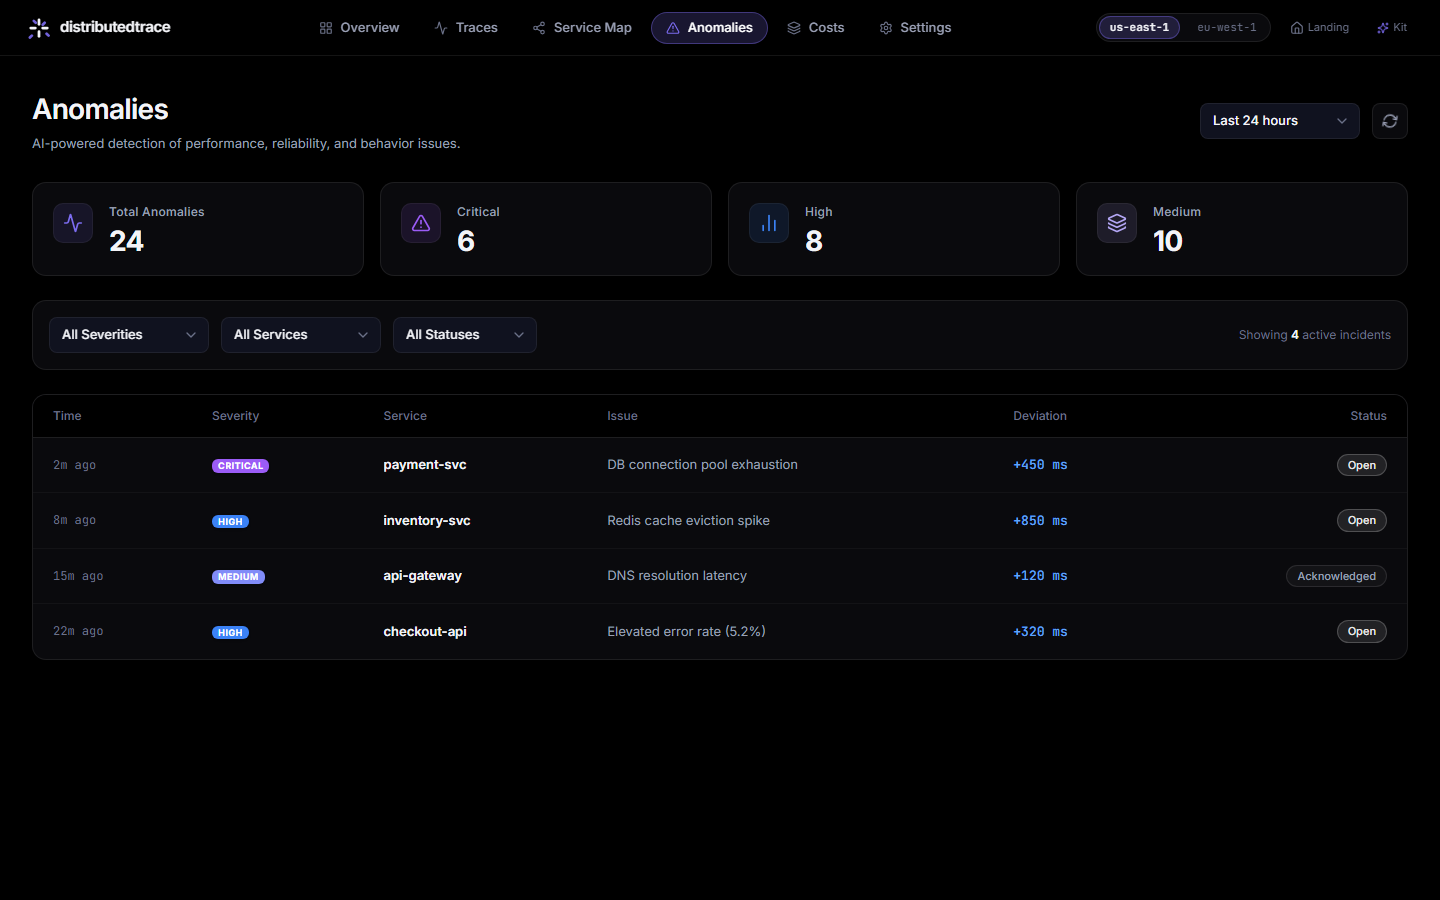
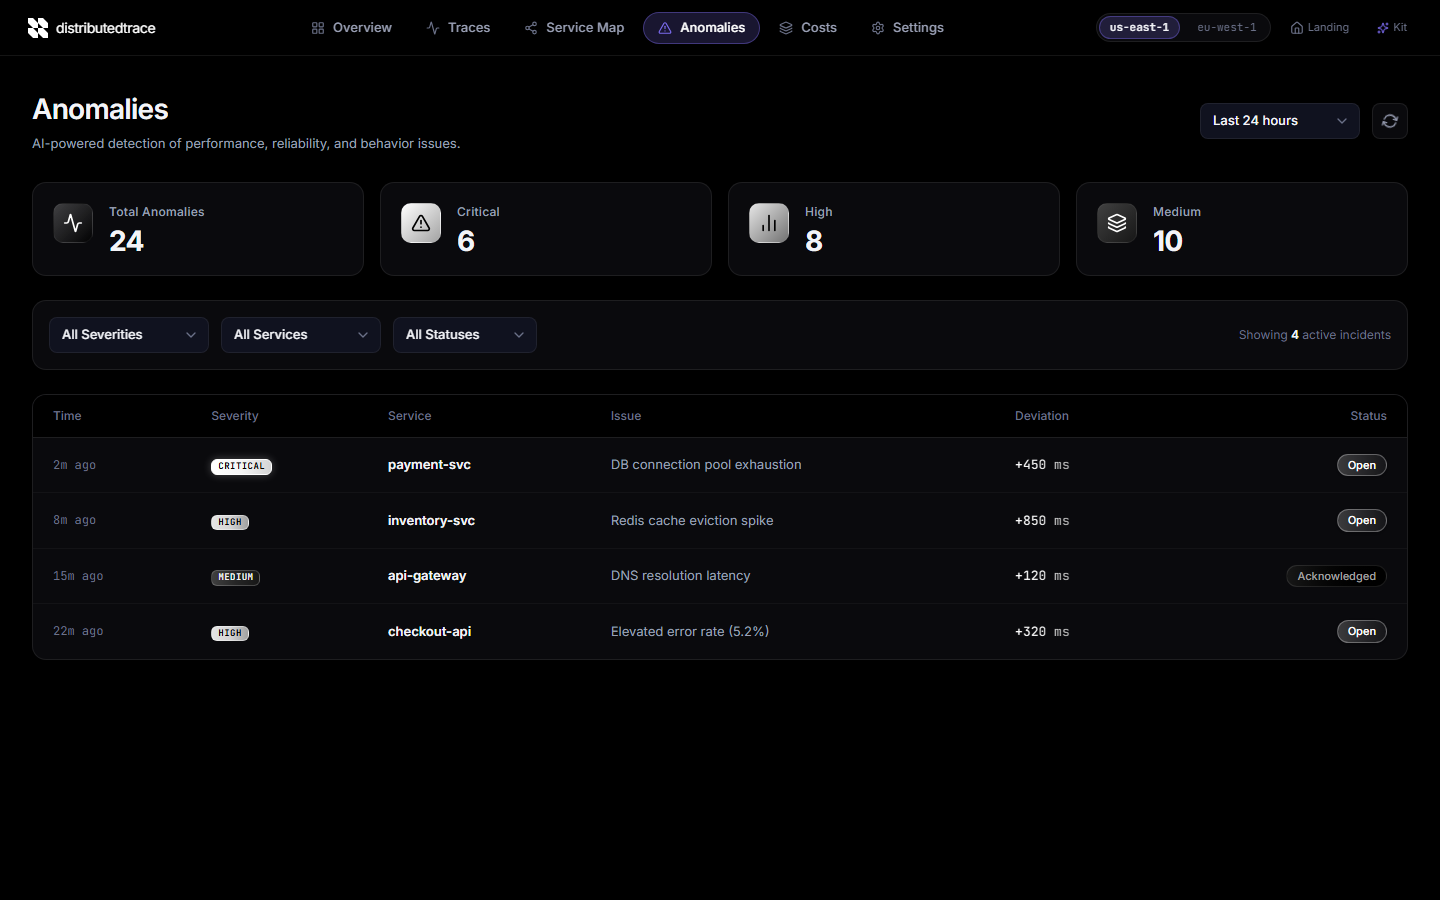
feat(ui): apply black and white color gradients to anomaly detection and designs

diff --git a/src/components/dashboard/AnomaliesTab.tsx b/src/components/dashboard/AnomaliesTab.tsx
@@ -140,35 +140,35 @@ export const AnomaliesTab: React.FC = () => {
         </div>
       </div>
 
-      {/* 4 Metric KPI Cards matching reference image */}
+      {/* 4 Metric KPI Cards matching reference image with Black & White Gradients */}
       <div className="grid grid-cols-1 sm:grid-cols-2 lg:grid-cols-4 gap-4">
         <StatCard
           label="Total Anomalies"
           value={stats.total}
           icon={<Activity className="w-5 h-5" />}
-          iconColor="#7c6cf0"
-          iconBg="rgba(124, 108, 240, 0.12)"
+          iconColor="#ffffff"
+          iconBg="linear-gradient(135deg, rgba(255, 255, 255, 0.22) 0%, rgba(0, 0, 0, 0.7) 100%)"
         />
         <StatCard
           label="Critical"
           value={stats.critical}
           icon={<TriangleAlert className="w-5 h-5" />}
-          iconColor="#9b5cf6"
-          iconBg="rgba(155, 92, 246, 0.12)"
+          iconColor="#000000"
+          iconBg="linear-gradient(135deg, #ffffff 0%, #a3a3a3 100%)"
         />
         <StatCard
           label="High"
           value={stats.high}
           icon={<BarChart2 className="w-5 h-5" />}
-          iconColor="#3b82f6"
-          iconBg="rgba(59, 130, 246, 0.12)"
+          iconColor="#000000"
+          iconBg="linear-gradient(135deg, #e5e5e5 0%, #737373 100%)"
         />
         <StatCard
           label="Medium"
           value={stats.medium}
           icon={<Layers className="w-5 h-5" />}
-          iconColor="#b4a7f5"
-          iconBg="rgba(180, 167, 245, 0.12)"
+          iconColor="#ffffff"
+          iconBg="linear-gradient(135deg, #404040 0%, #171717 100%)"
         />
       </div>
 
@@ -244,23 +244,25 @@ export const AnomaliesTab: React.FC = () => {
                     <td className="px-5 py-4">
                       <SeverityBadge severity={anom.severity} size="sm" />
                     </td>
-                    <td className="px-5 py-4 font-semibold text-[#f3f4f8] group-hover:text-[#7c6cf0] transition-colors">
+                    <td className="px-5 py-4 font-semibold text-[#f3f4f8] group-hover:text-white transition-colors">
                       {anom.service_name}
                     </td>
                     <td className="px-5 py-4 text-[#9aa0b5] font-normal">
                       {anom.issue_description || anom.operation_name}
                     </td>
-                    <td className="px-5 py-4 font-mono text-[13px] text-[#60a5fa] font-medium">
-                      {anom.deviation_text || `+${Math.round(anom.observed_latency_ms)}ms`}
+                    <td className="px-5 py-4 font-mono text-[13px] font-bold">
+                      <span className="bg-gradient-to-r from-white via-neutral-200 to-neutral-400 bg-clip-text text-transparent">
+                        {anom.deviation_text || `+${Math.round(anom.observed_latency_ms)}ms`}
+                      </span>
                     </td>
                     <td className="px-5 py-4 text-right">
                       <span
                         className={`inline-flex items-center px-2.5 py-0.5 rounded-full text-[11px] font-medium border ${
                           isResolved
-                            ? 'bg-[#3b82f6]/10 text-[#60a5fa] border-[#3b82f6]/30'
+                            ? 'bg-gradient-to-r from-neutral-800 to-black text-neutral-300 border-white/20'
                             : isAck
-                            ? 'bg-white/[0.04] text-[#9aa0b5] border-white/10'
-                            : 'bg-white/10 text-white/90 border-white/20'
+                            ? 'bg-gradient-to-r from-neutral-900 to-black text-neutral-400 border-white/10'
+                            : 'bg-gradient-to-r from-white/20 to-white/5 text-white border-white/30 shadow-sm'
                         }`}
                       >
                         {isResolved ? 'Resolved' : isAck ? 'Acknowledged' : 'Open'}
@@ -314,14 +316,14 @@ export const AnomaliesTab: React.FC = () => {
                 </div>
                 <div className="p-3 rounded-[10px] bg-white/[0.02] border border-white/5">
                   <span className="text-[#6b7188]">Observed Latency</span>
-                  <div className="text-[16px] font-bold font-mono text-[#b08cff] mt-0.5">
+                  <div className="text-[16px] font-bold font-mono bg-gradient-to-r from-white via-neutral-100 to-neutral-400 bg-clip-text text-transparent mt-0.5">
                     {selectedAnomaly.observed_latency_ms} ms
                   </div>
                 </div>
               </div>
 
               {/* Root Cause Path */}
-              <div className="p-4 rounded-[12px] bg-[#0d0f1a] border border-white/5">
+              <div className="p-4 rounded-[12px] bg-[#050508] border border-white/5">
                 <span className="text-[11px] font-medium text-[#6b7188] uppercase tracking-wider">
                   Causal Dependency Path
                 </span>
@@ -331,8 +333,8 @@ export const AnomaliesTab: React.FC = () => {
                       <span
                         className={`px-2.5 py-1 rounded text-xs font-mono font-medium ${
                           idx === selectedAnomaly.root_cause_path.length - 1
-                            ? 'bg-[#9b5cf6]/20 text-[#b4a7f5] border border-[#9b5cf6]/40'
-                            : 'bg-white/5 text-[#f3f4f8]'
+                            ? 'bg-gradient-to-r from-white/25 to-white/10 text-white border border-white/30 font-semibold shadow-sm'
+                            : 'bg-white/5 text-neutral-300'
                         }`}
                       >
                         {svc}
@@ -346,13 +348,13 @@ export const AnomaliesTab: React.FC = () => {
               </div>
 
               {/* AI Diagnostic Explanation / Deterministic Fallback */}
-              <div className="p-4 rounded-[12px] bg-[#0d0f1a] border border-[#7c6cf0]/30 flex flex-col gap-3">
+              <div className="p-4 rounded-[12px] bg-gradient-to-b from-white/[0.04] to-[#050508] border border-white/20 flex flex-col gap-3">
                 <div className="flex items-center justify-between">
                   <span className="text-xs font-semibold text-[#f3f4f8] flex items-center gap-1.5">
-                    <Sparkles className="w-3.5 h-3.5 text-[#7c6cf0]" />
+                    <Sparkles className="w-3.5 h-3.5 text-white" />
                     Causal Incident Analysis
                   </span>
-                  <span className="text-[10px] font-mono text-[#60a5fa] bg-[#3b82f6]/10 px-2 py-0.5 rounded border border-[#3b82f6]/30">
+                  <span className="text-[10px] font-mono text-white bg-gradient-to-r from-white/15 to-white/5 px-2 py-0.5 rounded border border-white/25">
                     Confidence: 94%
                   </span>
                 </div>
@@ -382,7 +384,7 @@ export const AnomaliesTab: React.FC = () => {
                   /* mutate status */
                   setSelectedAnomaly(null);
                 }}
-                className="px-4 py-2 rounded-[8px] bg-[#7c6cf0] hover:bg-[#6c5ce7] text-xs font-semibold text-white transition-colors"
+                className="px-4 py-2 rounded-[8px] bg-gradient-to-r from-white via-neutral-100 to-neutral-300 hover:from-neutral-100 hover:to-white text-xs font-semibold text-black transition-all shadow-sm"
               >
                 Acknowledge Incident
               </button>

diff --git a/src/components/common/SeverityBadge.tsx b/src/components/common/SeverityBadge.tsx
@@ -15,30 +15,38 @@ export const SeverityBadge: React.FC<SeverityBadgeProps> = ({
 }) => {
   const normalized = severity.toLowerCase() as SeverityLevel;
 
-  const styles: Record<SeverityLevel, { bg: string; text: string; label: string }> = {
+  const styles: Record<
+    SeverityLevel,
+    { gradient: string; text: string; border: string; label: string }
+  > = {
     critical: {
-      bg: 'bg-[#9b5cf6]',
-      text: 'text-white',
+      gradient: 'bg-gradient-to-r from-white via-neutral-100 to-neutral-300',
+      text: 'text-black font-extrabold',
+      border: 'border border-white shadow-[0_0_8px_rgba(255,255,255,0.25)]',
       label: 'CRITICAL',
     },
     high: {
-      bg: 'bg-[#3b82f6]',
-      text: 'text-white',
+      gradient: 'bg-gradient-to-r from-neutral-200 via-neutral-300 to-neutral-400',
+      text: 'text-black font-bold',
+      border: 'border border-white/40',
       label: 'HIGH',
     },
     medium: {
-      bg: 'bg-[#818cf8]',
-      text: 'text-white',
+      gradient: 'bg-gradient-to-r from-neutral-700 via-neutral-800 to-neutral-900',
+      text: 'text-neutral-100 font-medium',
+      border: 'border border-white/20',
       label: 'MEDIUM',
     },
     low: {
-      bg: 'bg-[#64748b]',
-      text: 'text-white',
+      gradient: 'bg-gradient-to-r from-neutral-900 to-black',
+      text: 'text-neutral-400 font-normal',
+      border: 'border border-white/10',
       label: 'LOW',
     },
     info: {
-      bg: 'bg-[#64748b]',
-      text: 'text-white',
+      gradient: 'bg-gradient-to-r from-neutral-900 to-black',
+      text: 'text-neutral-400 font-normal',
+      border: 'border border-white/10',
       label: 'INFO',
     },
   };
@@ -48,10 +56,9 @@ export const SeverityBadge: React.FC<SeverityBadgeProps> = ({
 
   return (
     <span
-      className={`inline-flex items-center justify-center font-bold uppercase tracking-wider rounded-[6px] ${current.bg} ${current.text} ${sizeClasses} shadow-sm ${className}`}
+      className={`inline-flex items-center justify-center font-mono uppercase tracking-wider rounded-[6px] ${current.gradient} ${current.text} ${current.border} ${sizeClasses} select-none ${className}`}
     >
       {current.label}
     </span>
   );
 };
-

diff --git a/src/pages/OverviewPage.tsx b/src/pages/OverviewPage.tsx
@@ -129,8 +129,8 @@ export const OverviewPage: React.FC = () => {
           label="Active Anomalies"
           value={activeAnomaliesCount}
           icon={<AlertTriangle className="w-5 h-5" />}
-          iconColor="#818cf8"
-          iconBg="rgba(129, 140, 248, 0.12)"
+          iconColor="#ffffff"
+          iconBg="linear-gradient(135deg, rgba(255, 255, 255, 0.22) 0%, rgba(0, 0, 0, 0.7) 100%)"
         />
       </div>
 
@@ -250,17 +250,17 @@ export const OverviewPage: React.FC = () => {
                   <div
                     key={anom.id}
                     onClick={() => navigate(`/anomalies?selected=${anom.id}`)}
-                    className="p-3 rounded-[10px] bg-white/[0.02] border border-[rgba(255,255,255,0.05)] hover:border-[rgba(255,255,255,0.12)] transition-all cursor-pointer flex flex-col gap-1.5 group"
+                    className="p-3 rounded-[10px] bg-gradient-to-r from-white/[0.04] to-transparent border border-white/[0.07] hover:border-white/20 transition-all cursor-pointer flex flex-col gap-1.5 group"
                   >
                     <div className="flex items-center justify-between">
                       <SeverityBadge severity={anom.severity} size="sm" />
-                      <span className="text-[11px] text-[#6b7188]">
+                      <span className="text-[11px] font-mono text-neutral-400 bg-gradient-to-r from-white/10 to-transparent px-1.5 py-0.5 rounded border border-white/10">
                         p95 +{latencyDelta > 0 ? latencyDelta : 340}%
                       </span>
                     </div>
 
                     <div className="flex items-baseline justify-between mt-0.5">
-                      <span className="text-[13px] font-semibold text-[#f3f4f8] group-hover:text-[#7c6cf0] transition-colors">
+                      <span className="text-[13px] font-semibold text-[#f3f4f8] group-hover:text-white transition-colors">
                         {anom.service_name}
                       </span>
                       <span className="text-[11px] font-mono text-[#9aa0b5]">

diff --git a/src/pages/ComponentKitPage.tsx b/src/pages/ComponentKitPage.tsx
@@ -125,9 +125,9 @@ export const ComponentKitPage: React.FC = () => {
             { name: '--accent', color: '#7c6cf0', desc: 'Violet brand / active' },
             { name: '--link', color: '#4d8dff', desc: 'Trace link mono' },
             { name: '--good', color: '#60a5fa', desc: 'Healthy / Positive' },
-            { name: '--sev-critical', color: '#9b5cf6', desc: 'Critical badge' },
-            { name: '--sev-high', color: '#3b82f6', desc: 'High badge' },
-            { name: '--sev-medium', color: '#818cf8', desc: 'Medium badge' },
+            { name: '--sev-critical', color: '#ffffff', desc: 'Critical gradient' },
+            { name: '--sev-high', color: '#a3a3a3', desc: 'High gradient' },
+            { name: '--sev-medium', color: '#404040', desc: 'Medium gradient' },
             { name: '--donut-healthy', color: '#3b82f6', desc: 'Healthy blue' },
             { name: '--bar-hot', color: '#9b6bf2', desc: 'Waterfall hot / highlight' },
             { name: '--text-2', color: '#9aa0b5', desc: 'Secondary label' },
@@ -179,8 +179,8 @@ export const ComponentKitPage: React.FC = () => {
             value="3"
             subtext="1 critical, 2 medium"
             icon={<ShieldAlert className="w-5 h-5" />}
-            iconColor="#818cf8"
-            iconBg="rgba(129, 140, 248, 0.12)"
+            iconColor="#ffffff"
+            iconBg="linear-gradient(135deg, rgba(255, 255, 255, 0.22) 0%, rgba(0, 0, 0, 0.7) 100%)"
           />
         </div>
       </div>

diff --git a/src/styles/tokens.css b/src/styles/tokens.css
@@ -47,15 +47,15 @@
   --bar-solid: #4d8dff;
   --bar-hot-solid: #7c6cf0;
 
-  /* Severity Badges (Zero Yellow) */
-  --sev-critical: #9b5cf6;
-  --sev-critical-text: #ffffff;
-  --sev-high: #3b82f6;
-  --sev-high-text: #ffffff;
-  --sev-medium: #818cf8;
+  /* Severity Badges & Anomaly Detection (Black & White Gradients) */
+  --sev-critical: linear-gradient(135deg, #ffffff 0%, #d4d4d4 100%);
+  --sev-critical-text: #000000;
+  --sev-high: linear-gradient(135deg, #e5e5e5 0%, #a3a3a3 100%);
+  --sev-high-text: #000000;
+  --sev-medium: linear-gradient(135deg, #404040 0%, #171717 100%);
   --sev-medium-text: #ffffff;
-  --sev-low: #64748b;
-  --sev-low-text: #ffffff;
+  --sev-low: linear-gradient(135deg, #1f1f1f 0%, #0a0a0a 100%);
+  --sev-low-text: #a3a3a3;
 
   /* Service Health / Donut Chart (Blue / Indigo / Violet - Zero Yellow, Zero Green) */
   --donut-healthy: #3b82f6;

diff --git a/src/components/common/StatCard.tsx b/src/components/common/StatCard.tsx
@@ -46,7 +46,7 @@ export const StatCard: React.FC<StatCardProps> = ({
       {icon && (
         <div
           className="w-10 h-10 rounded-[10px] flex items-center justify-center shrink-0 border border-white/[0.05]"
-          style={{ backgroundColor: iconBg, color: iconColor }}
+          style={{ background: iconBg, color: iconColor }}
         >
           {icon}
         </div>
